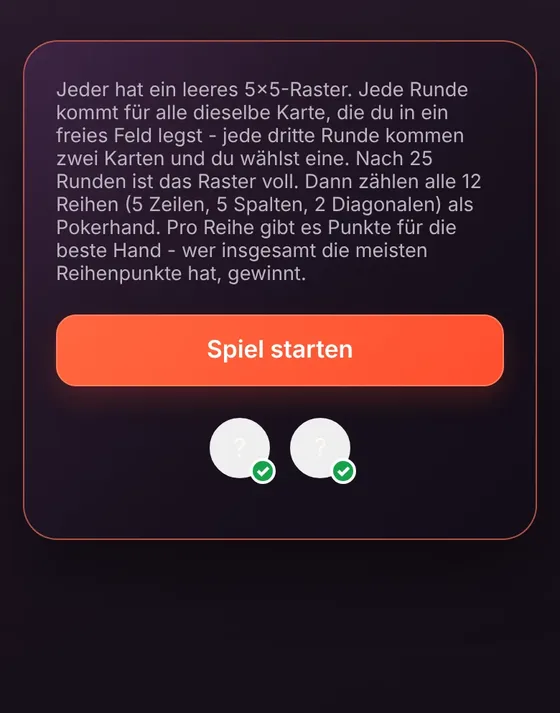
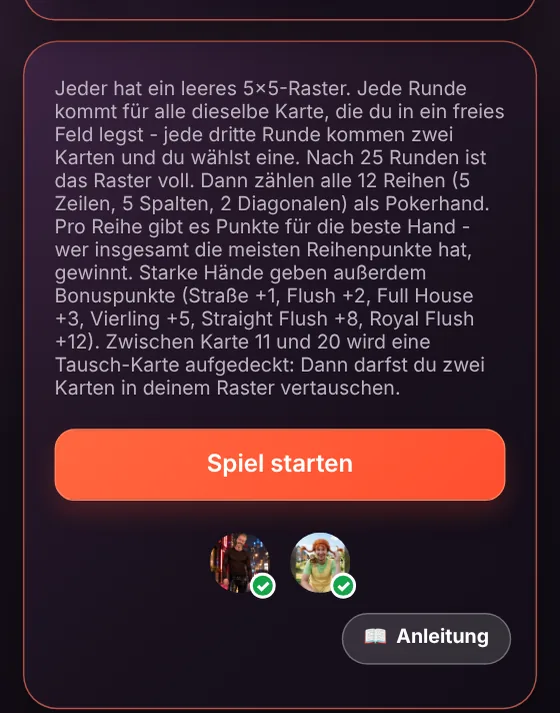
v478: Pokerduell-Anleitung - neue Screenshots (Startseite mit Bonus/Tausch-Text, Auswertung mit goldenem Bonus)
Claude-Session: https://claude.ai/code/session_01Bq3j1UmgmmQRjdUKFtX7an

diff --git a/sw.js b/sw.js
@@ -5,7 +5,7 @@
 // Nur dann wirft der Browser den alten Zwischenspeicher weg und alle Spieler
 // bekommen zuverlässig die neue Version. Das ist der einzige Handgriff, den man
 // nach dem Bearbeiten von Dateien nicht vergessen darf.
-const CACHE_NAME = "trollhouse-v477";
+const CACHE_NAME = "trollhouse-v478";
 
 const DATEIEN = [
   "./",
@@ -77,9 +77,9 @@ const DATEIEN = [
   "bilder/doppelkopf/karo-7.webp?v=453",
   "bilder/doppelkopf/karo-8.webp?v=453",
   "bilder/pokerduell-kachel.webp?v=458",
-  "bilder/anleitung/pokerduell-1.webp",
-  "bilder/anleitung/pokerduell-2.webp",
-  "bilder/anleitung/pokerduell-3.webp",
+  "bilder/anleitung/pokerduell-1.webp?v=478",
+  "bilder/anleitung/pokerduell-2.webp?v=478",
+  "bilder/anleitung/pokerduell-3.webp?v=478",
   "spiele/zeitgefuehl/spiel.js",
   "spiele/passgenau/spiel.js",
   "spiele/memory/spiel.js",

diff --git a/spiele/anleitungen.js b/spiele/anleitungen.js
@@ -21,7 +21,9 @@ function vorladen(pfad) {
   }
   return vorgeladen.get(pfad);
 }
-const fotoPfad = (id, nr) => `bilder/anleitung/${id}-${nr + 1}.webp?v=446`;
+// Einzelne Spiele mit neuen Screenshots bekommen eine eigene ?v-Nummer (Bild-Cache bleibt sonst beim alten Bild).
+const FOTO_VERSION = { pokerduell: 478 };
+const fotoPfad = (id, nr) => `bilder/anleitung/${id}-${nr + 1}.webp?v=${FOTO_VERSION[id] || 446}`;
 function alleKachelnVorladen() {
   const alle = Promise.all(SPIELE.filter((s) => ANLEITUNGEN[s.id]).map((s) => vorladen(s.bild)));
   return Promise.race([alle, new Promise((r) => setTimeout(r, 2000))]);   // höchstens 2 s warten

diff --git a/app.js b/app.js
@@ -15,7 +15,7 @@ import {
 // Spiel-Fixes (spiele/<id>/spiel.js) verzoegert oder gar nicht mit.
 import { SPIELE, spielInfo } from "./spiele/register.js?v=335";
 
-export const APP_VERSION = "v477";
+export const APP_VERSION = "v478";
 const appVersion = document.getElementById("app-version");
 appVersion.textContent = "Version " + APP_VERSION;
 

diff --git a/spiele/register.js b/spiele/register.js
@@ -18,7 +18,7 @@
 // in der Olympiade trotz Fix in v201/v202 teils noch bestehen lassen.
 // WICHTIG: bei jedem Versionssprung hier UND in app.js (Import von
 // register.js) mit hochzaehlen.
-const SPIEL_VERSION = "477";
+const SPIEL_VERSION = "478";
 
 export const SPIELE = [
   {
